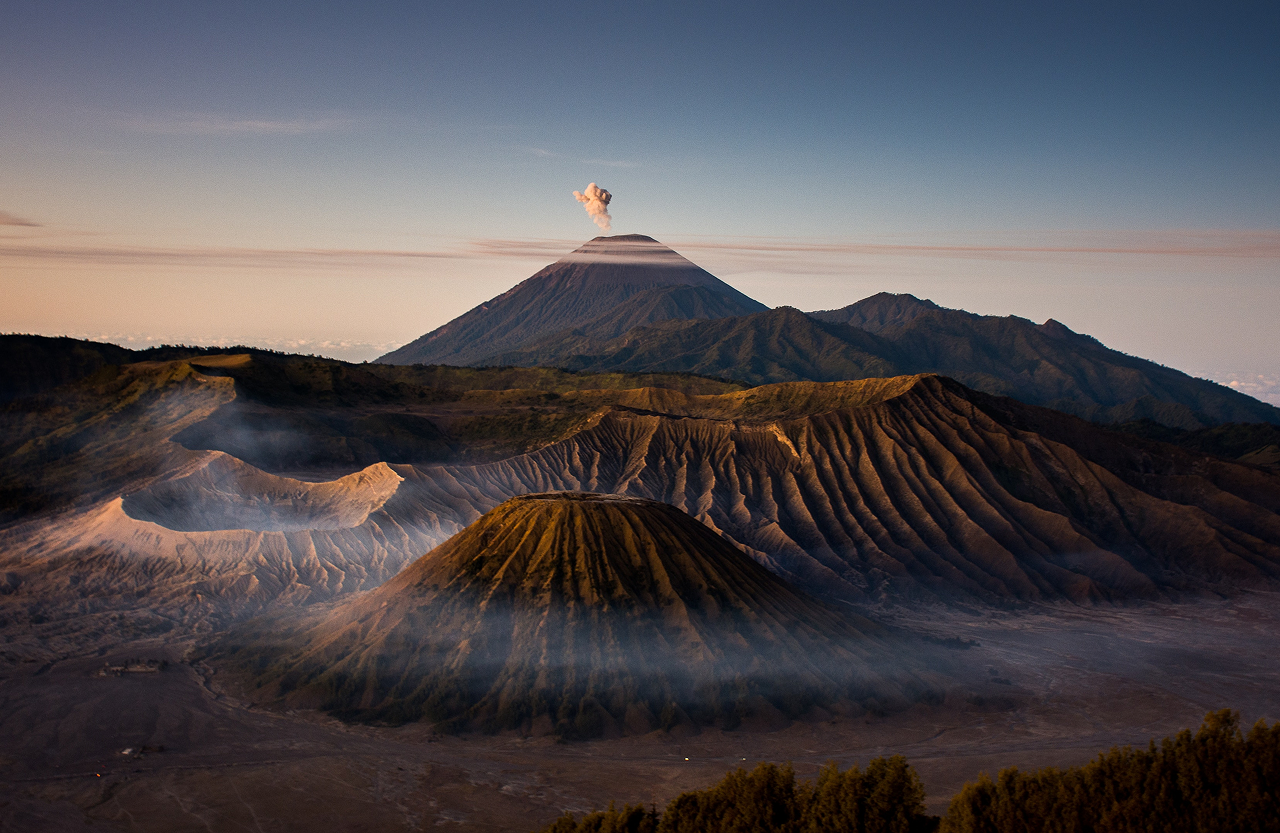
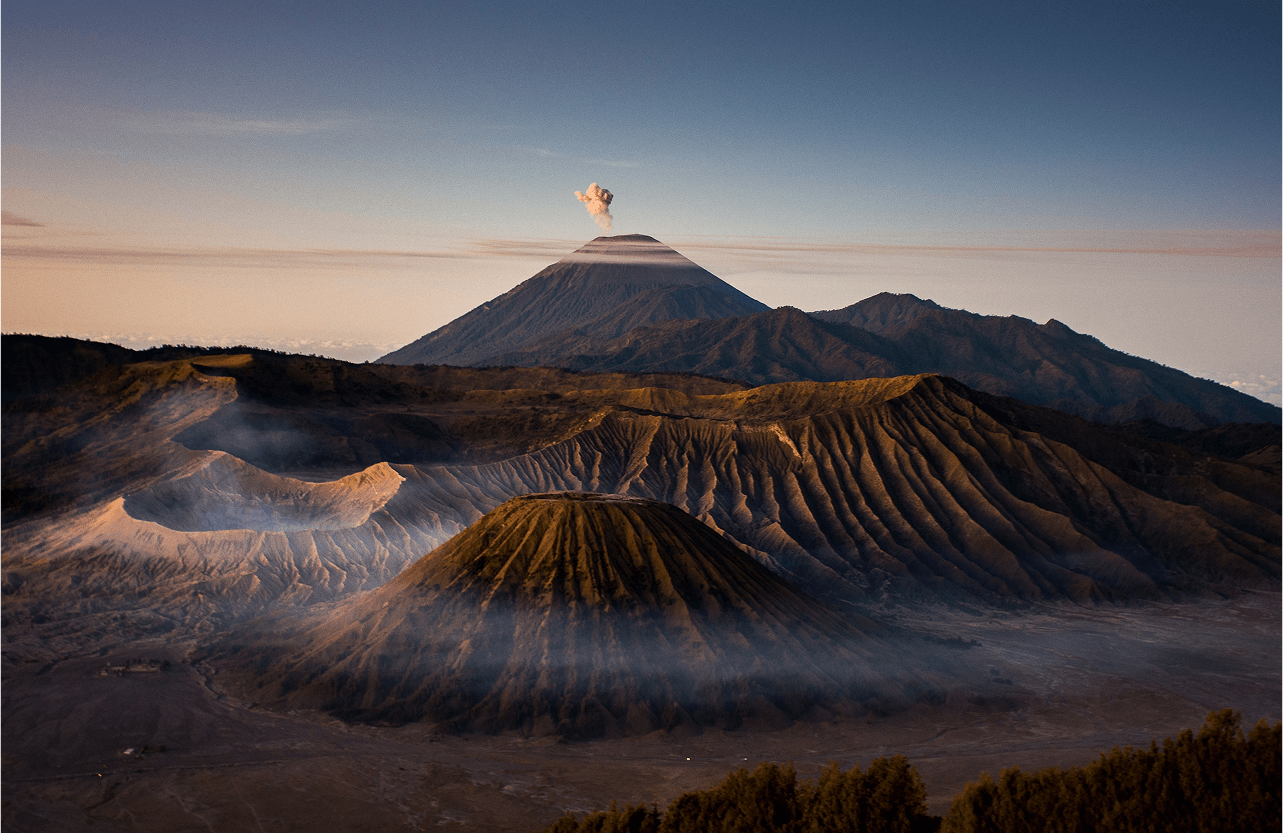
feat(seo): enhance seo

Changed region(s): [[0.125, 0.6555, 0.1875, 0.6867], [0.2188, 0.6555, 0.25, 0.6867]]

diff --git a/resources/views/_layouts/user.blade.php b/resources/views/_layouts/user.blade.php
@@ -107,7 +107,7 @@
         },
         "telephone": "+628123456789",
         "openingHours": "Mo-Su 08:00-22:00",
-        "priceRange": "Rp200.000 - Rp1.500.000",
+        "priceRange": "Rp3.650.000 - Rp10.000.000",
         "sameAs": [
             "https://www.instagram.com/septemtour",
             "https://www.facebook.com/septemtour"
